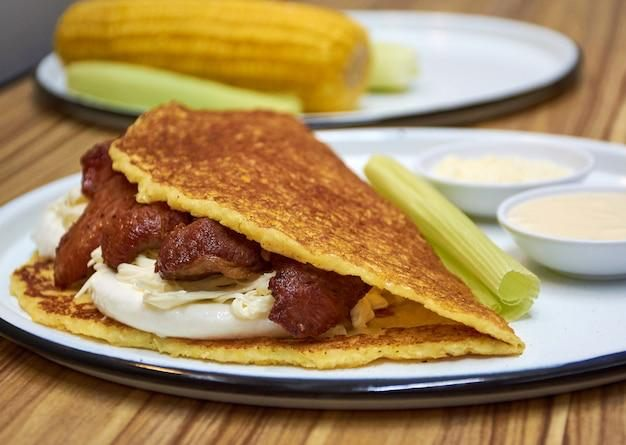
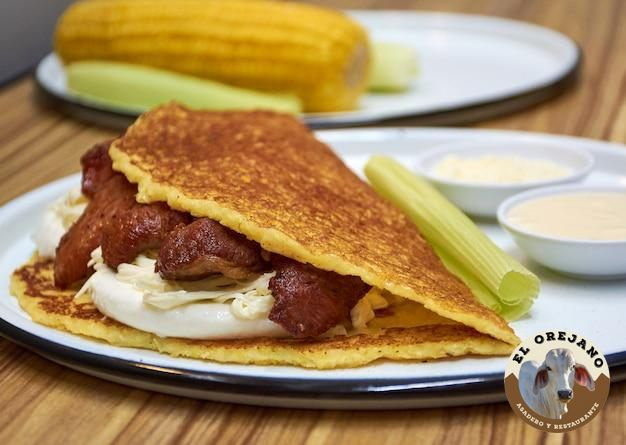
Actualiza foto de arepa de chocolo con guacamole

Changed region(s): [[0.7891, 0.7303, 1.0, 0.9933]]

diff --git a/index.html b/index.html
@@ -376,13 +376,24 @@
           </div>
           <div class="dish">
             <div class="dish-row">
-              <span class="dish-name">Hígado encebollado</span>
+              <button class="dish-name dish-toggle" aria-expanded="false">
+                Hígado encebollado
+              </button>
               <span class="leader" aria-hidden="true"></span>
               <span class="dish-price">$ 35.000</span>
             </div>
             <p class="dish-desc">
               Hígado encebollado acompañado de patacón y arroz.
             </p>
+          <img
+            class="dish-photo"
+            src="images/higado-encebollado.jpg"
+            alt="Hígado encebollado"
+            width="700"
+            height="391"
+            loading="lazy"
+            decoding="async"
+          />
           </div>
           <div class="dish">
             <div class="dish-row">
@@ -394,11 +405,22 @@
           </div>
           <div class="dish">
             <div class="dish-row">
-              <span class="dish-name">Arepa chocolo queso</span>
+              <button class="dish-name dish-toggle" aria-expanded="false">
+                Arepa chocolo queso
+              </button>
               <span class="leader" aria-hidden="true"></span>
               <span class="dish-price">$ 12.000</span>
             </div>
             <p class="dish-desc">Arepa de mazorca con queso.</p>
+          <img
+            class="dish-photo"
+            src="images/arepa-chocolo-queso.jpg"
+            alt="Arepa chocolo queso"
+            width="700"
+            height="391"
+            loading="lazy"
+            decoding="async"
+          />
           </div>
           <div class="dish">
             <div class="dish-row">
@@ -648,23 +670,47 @@
           </div>
           <div class="dish">
             <div class="dish-row">
-              <span class="dish-name">Mondongo</span>
+              <button class="dish-name dish-toggle" aria-expanded="false">
+                Mondongo
+              </button>
               <span class="leader" aria-hidden="true"></span>
               <span class="dish-price">$ 15.000</span>
             </div>
             <p class="dish-desc">Sopa con callo picado, papa y verduras.</p>
+          <img
+            class="dish-photo"
+            src="images/mondongo.jpg"
+            alt="Mondongo"
+            width="700"
+            height="391"
+            loading="lazy"
+            decoding="async"
+          />
           </div>
           <div class="dish">
             <div class="dish-row">
-              <span class="dish-name">Mute santandereano</span>
+              <button class="dish-name dish-toggle" aria-expanded="false">
+                Mute santandereano
+              </button>
               <span class="leader" aria-hidden="true"></span>
               <span class="dish-price">$ 15.000</span>
             </div>
             <p class="dish-desc">Sopa con maíz, papa, pata y verduras.</p>
+          <img
+            class="dish-photo"
+            src="images/mute-santandereano.jpg"
+            alt="Mute santandereano"
+            width="700"
+            height="391"
+            loading="lazy"
+            decoding="async"
+          />
           </div>
           <div class="dish">
             <div class="dish-row">
-              <span class="dish-name">Frijolada</span>
+              <button class="dish-name dish-toggle" aria-expanded="false">
+                Frijolada
+              </button>
               <span class="leader" aria-hidden="true"></span>
               <span class="dish-price">$ 38.000</span>
             </div>
@@ -672,6 +718,15 @@
               Frijol con pezuña, acompañado de arroz, arepa antioqueña, patacón
               y chicharrón.
             </p>
+          <img
+            class="dish-photo"
+            src="images/frijolada.jpg"
+            alt="Frijolada"
+            width="700"
+            height="391"
+            loading="lazy"
+            decoding="async"
+          />
           </div>
           <div class="dish">
             <div class="dish-row">
@@ -1060,7 +1115,9 @@
         <div class="dish-grid">
           <div class="dish">
             <div class="dish-row">
-              <span class="dish-name">Cazuela de mariscos</span>
+              <button class="dish-name dish-toggle" aria-expanded="false">
+                Cazuela de mariscos
+              </button>
               <span class="leader" aria-hidden="true"></span>
               <span class="dish-price">$ 60.000</span>
             </div>
@@ -1068,6 +1125,15 @@
               Camarón, calamar, mejillón y pescado en trozos, con arroz, patacón
               y ensalada.
             </p>
+          <img
+            class="dish-photo"
+            src="images/cazuela-de-mariscos.jpg"
+            alt="Cazuela de mariscos"
+            width="700"
+            height="391"
+            loading="lazy"
+            decoding="async"
+          />
           </div>
           <div class="dish">
             <div class="dish-row">
@@ -1771,7 +1837,9 @@
           </div>
           <div class="dish">
             <div class="dish-row">
-              <span class="dish-name">Arepa de chocolo con guacamole</span>
+              <button class="dish-name dish-toggle" aria-expanded="false">
+                Arepa de chocolo con guacamole
+              </button>
               <span class="leader" aria-hidden="true"></span>
               <span class="dish-price">$ 35.000</span>
             </div>
@@ -1779,6 +1847,15 @@
               Arepa de mazorca bañada en guacamole, con chicharrón, carne de res
               desmechada y hogao.
             </p>
+          <img
+            class="dish-photo"
+            src="images/arepa-chocolo-guacamole.jpg"
+            alt="Arepa de chocolo con guacamole"
+            width="626"
+            height="445"
+            loading="lazy"
+            decoding="async"
+          />
           </div>
         </div>
       </section>
@@ -1850,13 +1927,24 @@
           </div>
           <div class="dish">
             <div class="dish-row">
-              <span class="dish-name">Cerezada</span>
+              <button class="dish-name dish-toggle" aria-expanded="false">
+                Cerezada
+              </button>
               <span class="leader" aria-hidden="true"></span>
               <span class="dish-price">$ 12.000</span>
             </div>
             <p class="dish-desc">
               Bebida refrescante preparada con jugosas cerezas, hielo y limón.
             </p>
+          <img
+            class="dish-photo"
+            src="images/cerezada.jpg"
+            alt="Cerezada"
+            width="700"
+            height="391"
+            loading="lazy"
+            decoding="async"
+          />
           </div>
           <div class="dish">
             <div class="dish-row">
